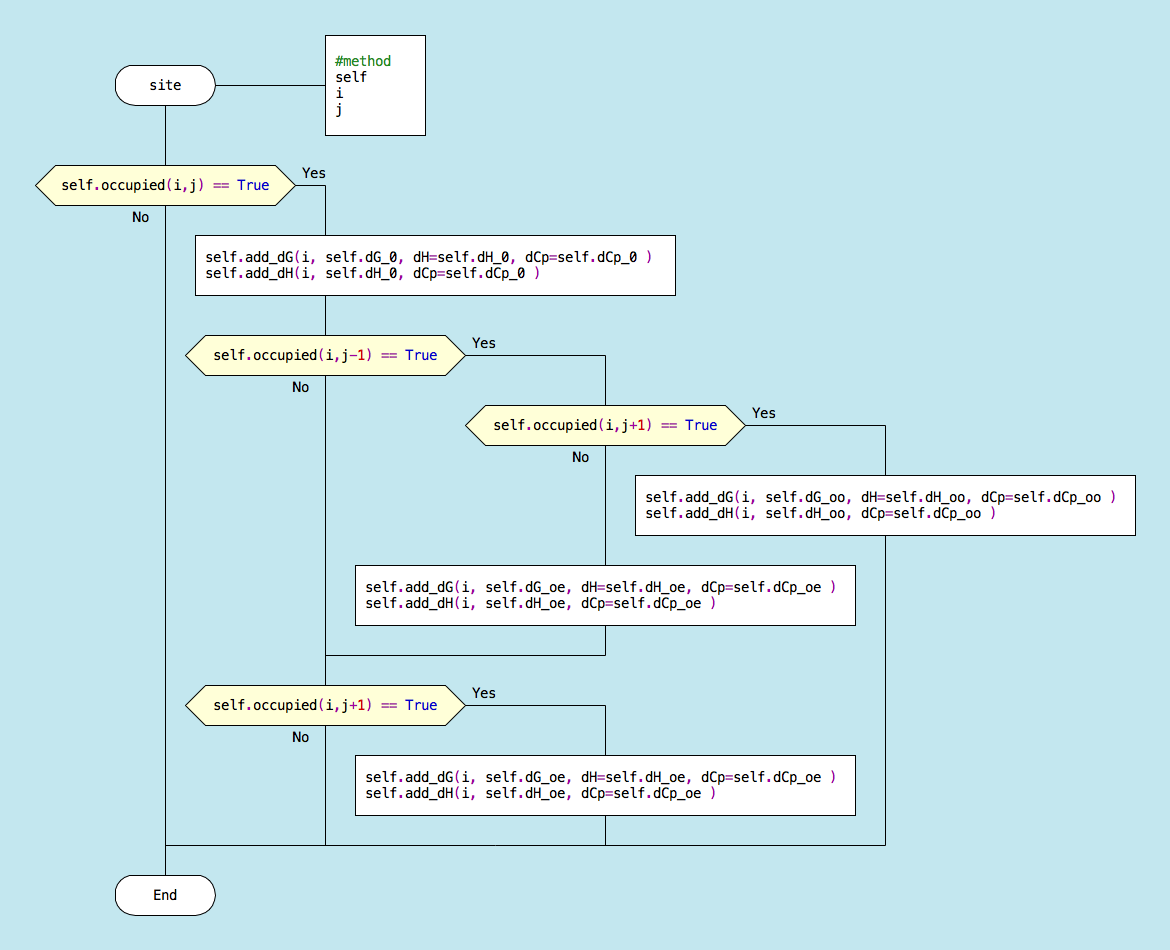
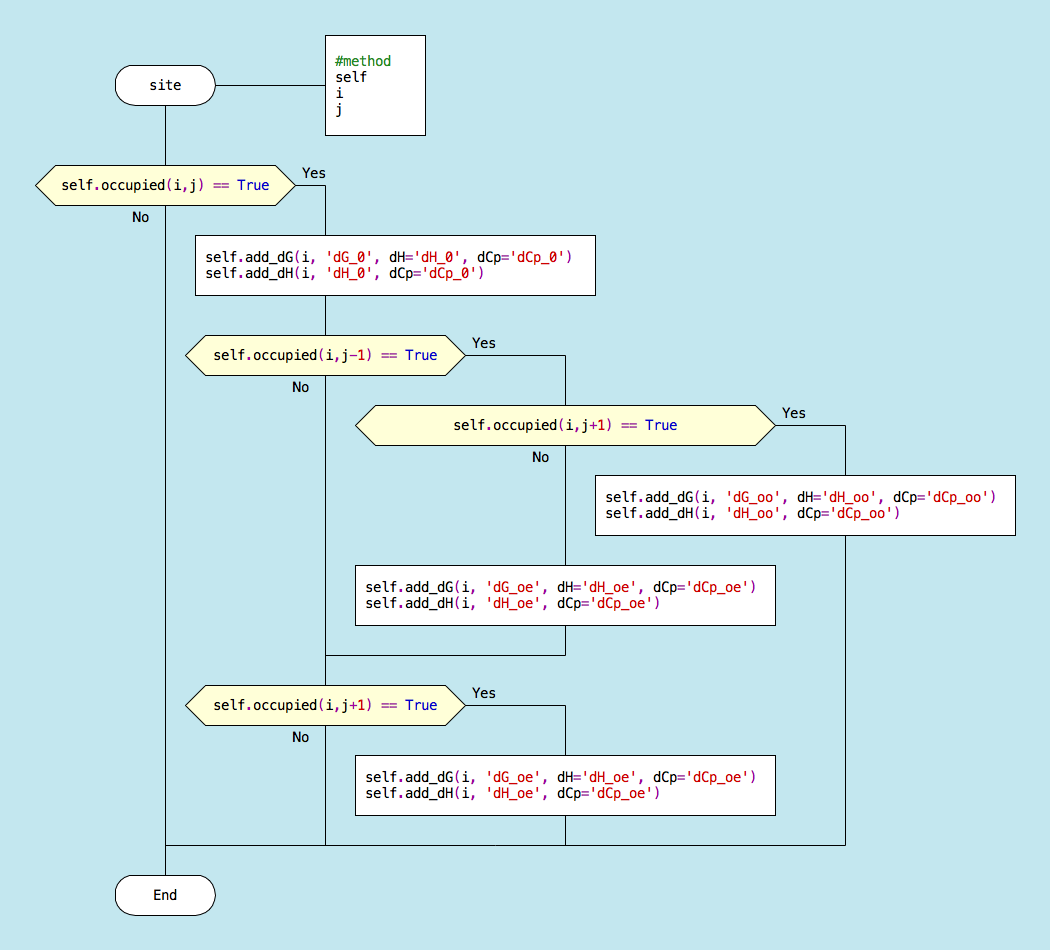
DRAKON integration improvement
DRAKON models now correctly generate partition functions

diff --git a/examples/drakon/koshland-1966/koshland_1966.py b/examples/drakon/koshland-1966/koshland_1966.py
@@ -7,8 +7,8 @@ def linear(m, i, j):
     #item 353
     if m.occupied(i,j) == True:
         #item 355
-        m.add_dG(i, m.dG_st)
-        m.add_dH(i, m.dH_st)
+        m.add_dG(i, 'dG_st')
+        m.add_dH(i, 'dH_st')
         #item 372
         if j == 0:
             pass
@@ -16,12 +16,12 @@ def linear(m, i, j):
             #item 356
             if m.occupied(i,j-1) == True:
                 #item 358
-                m.add_dG(i, m.dG_BB)
-                m.add_dH(i, m.dH_BB)
+                m.add_dG(i, 'dG_BB')
+                m.add_dH(i, 'dH_BB')
             else:
                 #item 357
-                m.add_dG(i, m.dG_AB)
-                m.add_dH(i, m.dH_AB)
+                m.add_dG(i, 'dG_AB')
+                m.add_dH(i, 'dH_AB')
         #item 374
         if j == 3:
             pass
@@ -29,12 +29,12 @@ def linear(m, i, j):
             #item 361
             if m.occupied(i,j+1) == True:
                 #item 363
-                m.add_dG(i, m.dG_BB)
-                m.add_dH(i, m.dH_BB)
+                m.add_dG(i, 'dG_BB')
+                m.add_dH(i, 'dH_BB')
             else:
                 #item 362
-                m.add_dG(i, m.dG_AB)
-                m.add_dH(i, m.dH_AB)
+                m.add_dG(i, 'dG_AB')
+                m.add_dH(i, 'dH_AB')
     else:
         pass
 
@@ -43,8 +43,8 @@ def noncooperative(m, i, j):
     #item 434
     if m.occupied(i,j) == True:
         #item 436
-        m.add_dG(i, m.dG_st)
-        m.add_dH(i, m.dH_st)
+        m.add_dG(i, 'dG_st')
+        m.add_dH(i, 'dH_st')
     else:
         pass
 
@@ -53,26 +53,26 @@ def square(m, i, j):
     #item 329
     if m.occupied(i,j) == True:
         #item 331
-        m.add_dG(i, m.dG_st)
-        m.add_dH(i, m.dH_st)
+        m.add_dG(i, 'dG_st')
+        m.add_dH(i, 'dH_st')
         #item 332
         if m.occupied(i,j-1) == True:
             #item 334
-            m.add_dG(i, m.dG_BB)
-            m.add_dH(i, m.dH_BB)
+            m.add_dG(i, 'dG_BB')
+            m.add_dH(i, 'dH_BB')
         else:
             #item 333
-            m.add_dG(i, m.dG_AB)
-            m.add_dH(i, m.dH_AB)
+            m.add_dG(i, 'dG_AB')
+            m.add_dH(i, 'dH_AB')
         #item 337
         if m.occupied(i,j+1) == True:
             #item 339
-            m.add_dG(i, m.dG_BB)
-            m.add_dH(i, m.dH_BB)
+            m.add_dG(i, 'dG_BB')
+            m.add_dH(i, 'dH_BB')
         else:
             #item 338
-            m.add_dG(i, m.dG_AB)
-            m.add_dH(i, m.dH_AB)
+            m.add_dG(i, 'dG_AB')
+            m.add_dH(i, 'dH_AB')
     else:
         pass
 
@@ -81,8 +81,8 @@ def tetrahedral(m, i, j):
     #item 384
     if m.occupied(i,j) == True:
         #item 386
-        m.add_dG(i, m.dG_st)
-        m.add_dH(i, m.dH_st)
+        m.add_dG(i, 'dG_st')
+        m.add_dH(i, 'dH_st')
         #item 417
         counter = 0
         while True:
@@ -93,12 +93,12 @@ def tetrahedral(m, i, j):
                 #item 409
                 if m.occupied(i,counter) == True:
                     #item 412
-                    m.add_dG(i, m.dG_BB)
-                    m.add_dH(i, m.dH_BB)
+                    m.add_dG(i, 'dG_BB')
+                    m.add_dH(i, 'dH_BB')
                 else:
                     #item 411
-                    m.add_dG(i, m.dG_AB)
-                    m.add_dH(i, m.dH_AB)
+                    m.add_dG(i, 'dG_AB')
+                    m.add_dH(i, 'dH_AB')
             #item 418
             counter = counter + 1
             #item 419
@@ -116,20 +116,20 @@ class Model(DRAKONIsingModel):
         #item 136
         self.initialize(nsites=4,circular=True)
         #item 30
-        self.add_parameter("dG_st")
+        self.add_parameter("dG_st", type="dG")
         #item 316
-        self.add_parameter("dG_AB")
+        self.add_parameter("dG_AB", type="dG")
         #item 317
-        self.add_parameter("dG_BB")
+        self.add_parameter("dG_BB", type="dG")
         #item 32
-        self.add_parameter("dH_st")
-        self.add_parameter("dH_AB")
-        self.add_parameter("dH_BB")
+        self.add_parameter("dH_st", type="dH")
+        self.add_parameter("dH_AB", type="dH")
+        self.add_parameter("dH_BB", type="dH")
 
 
     def site(self, i, j):
         #item 428
-        type = "nonncooperative"
+        type = "linear"
         #item 4210001
         if type == "tetrahedral":
             #item 438

diff --git a/itcsimlib/model_drakon.py b/itcsimlib/model_drakon.py
@@ -31,7 +31,6 @@ class DRAKONIsingModel(Ising):
 		# convenience functions
 		self.occupied = self.get_site_occupancy
 		self.neighbor = self.get_site_occupancy
-		self.set_param = self.set_parameter
 		
 		self.setup()
 	
@@ -43,31 +42,15 @@ class DRAKONIsingModel(Ising):
 		Ising.__init__(self, *args, **kwargs)
 	
 	def add_parameter(self, name, type=None, **kwargs):
-		"""Alias for the ITCModel add_parameter() method. This method also adds the parameter to the class attributes.
+		"""Convenience function for the ITCModel add_parameter() method.
 		
 		See the ITCModel.add_parameter() method for the argument list.
-		
-		Note that it's usually bad practice to pollute the namespace with random attributes.
-		Here, it's a calculated risk for more grokable DRAKON diagrams."""
-		
-		if getattr(self, name, "unassigned") != "unassigned":
-			raise Exception("The parameter name \"%s\" is already used in this class."%(args[0]))
-		else:
-			setattr(self, name, 0.0)
+		"""
 			
 		if type==None: # a bit cheesy
 			type = name[0:2]
 			
 		Ising.add_parameter(self, name, type, **kwargs)
-			
-	def set_parameter(self, name, value):
-		"""Alias for the ITCModel set_parameter() method. Updates the class attribute value as well.
-		
-		See the ITCModel.add_parameter() method for the argument list.
-		"""
-
-		Ising.set_param(self, name, value) # convert units if necessary
-		setattr(self, name, self.params[name])
 		
 	def count_occupied(self, i):
 		"""Convenience function for DRAKON models - getter for bound[].
@@ -120,18 +103,20 @@ class DRAKONIsingModel(Ising):
 		---------
 		i : integer
 			The index of the configuration
-		dG : float
-			The free energy change to add to the configuration, or the reference free energy change if dH and dCp are provided.
-		dH : float or None
-			The enthalpy change to use in the van't Hoff correction.
-		dCp : float or None
-			The heat capacity change to use in the van't Hoff correction.
+		dG : string
+			The name of the free energy change parameter to add to the configuration, or the reference free energy change if dH and dCp are provided.
+		dH : string or None
+			The name of the  enthalpy change parameter to use in the van't Hoff correction.
+		dCp : string or None
+			The name of the heat capacity change parameter to use in the van't Hoff correction.
 		"""
 		
 		if dH==None or dCp==None:
-			self.gibbs[i] += dG
+			self.gibbs[i] += self.get_param(dG,units="J")
 		else:
-			self.gibbs[i] += dG_vant_Hoff( dG, dH, dCp, self._T, self._T0 )
+			self.gibbs[i] += dG_vant_Hoff( self.get_param(dG,units="J"), self.get_param(dH,units="J"), self.get_param(dCp,units="J"), self._T, self._T0 )
+		
+		self.config_expressions[i] += self.parameter_symbols[dG]
 		
 	def add_dH(self, i, dH, dCp=None):
 		"""Convenience function for DRAKON models to increment the enthalpy of a configuration.
@@ -141,14 +126,14 @@ class DRAKONIsingModel(Ising):
 		---------
 		i : integer
 			The index of the configuration			
-		dH : float
-			The enthalpy change to add to the configuration.
-		dCp : float or None
-			The heat capacity change to use in the van't Hoff correction.
+		dH : string
+			The name of the enthalpy change parameter to add to the configuration.
+		dCp : string or None
+			The name of the heat capacity change parameter to use in the van't Hoff correction.
 		"""
 		
 		if dCp==None:
-			self.enthalpies[i] += dH
+			self.enthalpies[i] += self.get_param(dH,units="J")
 		else:
-			self.enthalpies[i] += dH_vant_Hoff( dH, dCp, self._T, self._T0 )
+			self.enthalpies[i] += dH_vant_Hoff( self.get_param(dH,units="J"), self.get_param(dCp,units="J"), self._T, self._T0 )
 		

diff --git a/examples/drakon/ihms-2017/drakon_ising.py b/examples/drakon/ihms-2017/drakon_ising.py
@@ -29,32 +29,32 @@ class Model(DRAKONIsingModel):
         #item 97
         if self.occupied(i,j) == True:
             #item 90
-            self.add_dG(i, self.dG_0, dH=self.dH_0, dCp=self.dCp_0 )
-            self.add_dH(i, self.dH_0, dCp=self.dCp_0 )
+            self.add_dG(i, 'dG_0', dH='dH_0', dCp='dCp_0')
+            self.add_dH(i, 'dH_0', dCp='dCp_0')
             #item 95
             if self.occupied(i,j-1) == True:
                 #item 91
                 if self.occupied(i,j+1) == True:
                     #item 108
-                    self.add_dG(i, self.dG_oo, dH=self.dH_oo, dCp=self.dCp_oo )
-                    self.add_dH(i, self.dH_oo, dCp=self.dCp_oo )
+                    self.add_dG(i, 'dG_oo', dH='dH_oo', dCp='dCp_oo')
+                    self.add_dH(i, 'dH_oo', dCp='dCp_oo')
                 else:
                     #item 109
-                    self.add_dG(i, self.dG_oe, dH=self.dH_oe, dCp=self.dCp_oe )
-                    self.add_dH(i, self.dH_oe, dCp=self.dCp_oe )
+                    self.add_dG(i, 'dG_oe', dH='dH_oe', dCp='dCp_oe')
+                    self.add_dH(i, 'dH_oe', dCp='dCp_oe')
                     #item 99
                     if self.occupied(i,j+1) == True:
                         #item 110
-                        self.add_dG(i, self.dG_oe, dH=self.dH_oe, dCp=self.dCp_oe )
-                        self.add_dH(i, self.dH_oe, dCp=self.dCp_oe )
+                        self.add_dG(i, 'dG_oe', dH='dH_oe', dCp='dCp_oe')
+                        self.add_dH(i, 'dH_oe', dCp='dCp_oe')
                     else:
                         pass
             else:
                 #item 99
                 if self.occupied(i,j+1) == True:
                     #item 110
-                    self.add_dG(i, self.dG_oe, dH=self.dH_oe, dCp=self.dCp_oe )
-                    self.add_dH(i, self.dH_oe, dCp=self.dCp_oe )
+                    self.add_dG(i, 'dG_oe', dH='dH_oe', dCp='dCp_oe')
+                    self.add_dH(i, 'dH_oe', dCp='dCp_oe')
                 else:
                     pass
         else:

diff --git a/examples/drakon/koshland-1966/run.py b/examples/drakon/koshland-1966/run.py
@@ -1,5 +1,8 @@
 import sys
 sys.path.append("/Users/elihuihms/Sync/Research/itcsimlib-master/")
+sys.path.append("/Users/elihuihms/Sync/Research/itcsimlib-master/examples/drakon/koshland-1966/")
+
+import sympy
 
 from itcsimlib import *
 
@@ -13,7 +16,7 @@ sim.add_experiment_synthetic(
 	Syringe={"Ligand":40E-6},
 	title='drakon_004')
 
-from drakon_test_004 import Model
+from koshland_1966 import Model
 
 model = Model()
 model.precision = 1E-15
@@ -21,6 +24,7 @@ model.precision = 1E-15
 sim.set_model( model )
 
 print sim.model
+print sympy.latex(sim.model.get_partition_function())
 
 sim.set_model_params(-10,0,0,-1,0,0) #dG_st, dG_AB, dG_BB, #dH_st, dH_AB, dH_BB
 sim.run()
